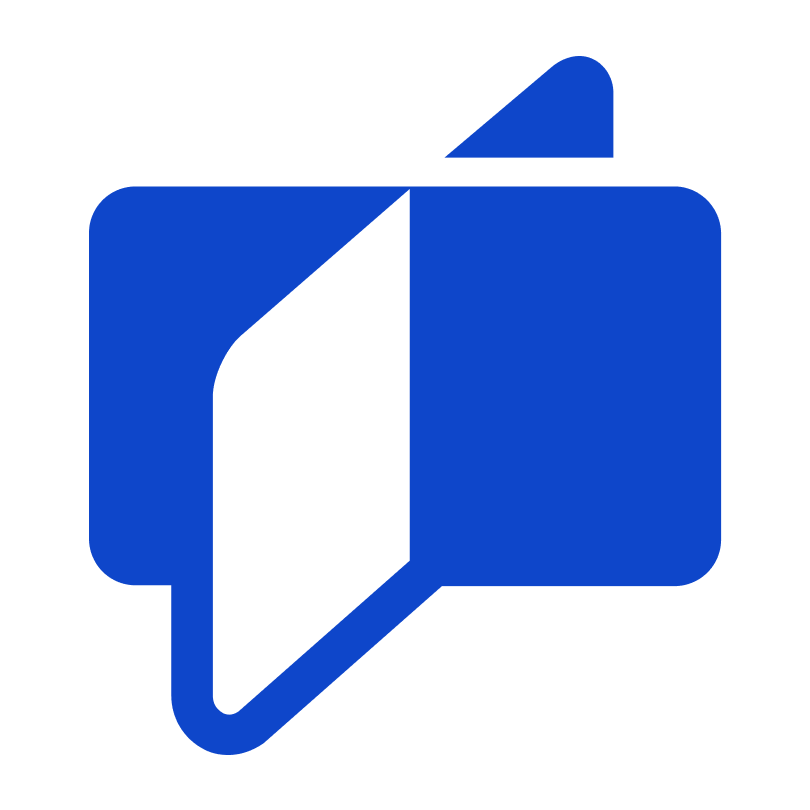
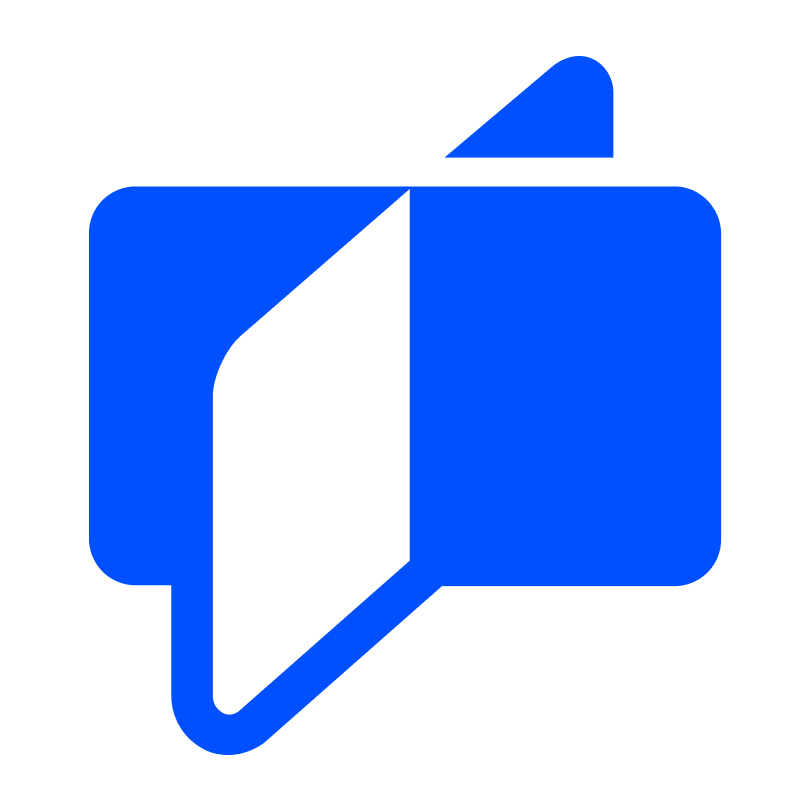
feat: electric blue

diff --git a/packages/styles/_colors.scss b/packages/styles/_colors.scss
@@ -78,25 +78,25 @@ $v-orange-850: rgb(255, 221, 179);
 $v-orange-900: rgb(255, 232, 204);
 $v-orange-950: rgb(255, 243, 229);
 
-$v-primary-50: rgb(0, 0, 0);
-$v-primary-100: rgb(1, 4, 11);
-$v-primary-150: rgb(2, 12, 35);
-$v-primary-200: rgb(4, 20, 59);
-$v-primary-250: rgb(6, 29, 83);
-$v-primary-300: rgb(7, 37, 107);
-$v-primary-350: rgb(9, 45, 130);
-$v-primary-400: rgb(11, 53, 154);
-$v-primary-450: rgb(12, 62, 178);
-$v-primary-500: rgb(14, 70, 202);
-$v-primary-550: rgb(16, 78, 226);
-$v-primary-600: rgb(28, 91, 239);
-$v-primary-650: rgb(52, 108, 241);
-$v-primary-700: rgb(75, 125, 243);
-$v-primary-750: rgb(99, 142, 244);
-$v-primary-800: rgb(123, 160, 246);
-$v-primary-850: rgb(147, 177, 248);
-$v-primary-900: rgb(171, 194, 249);
-$v-primary-950: rgb(195, 211, 251);
+$v-primary-50: rgb(0, 8, 25);
+$v-primary-100: rgb(0, 16, 51);
+$v-primary-150: rgb(0, 24, 77);
+$v-primary-200: rgb(0, 32, 102);
+$v-primary-250: rgb(0, 40, 128);
+$v-primary-300: rgb(0, 48, 153);
+$v-primary-350: rgb(0, 56, 179);
+$v-primary-400: rgb(0, 64, 204);
+$v-primary-450: rgb(0, 72, 230);
+$v-primary-500: rgb(0, 80, 255);
+$v-primary-550: rgb(26, 97, 255);
+$v-primary-600: rgb(51, 115, 255);
+$v-primary-650: rgb(77, 132, 255);
+$v-primary-700: rgb(102, 150, 255);
+$v-primary-750: rgb(128, 167, 255);
+$v-primary-800: rgb(153, 185, 255);
+$v-primary-850: rgb(179, 202, 255);
+$v-primary-900: rgb(204, 220, 255);
+$v-primary-950: rgb(229, 237, 255);
 
 $v-secondary-100: rgb(130, 122, 0);
 $v-secondary-200: rgb(181, 170, 0);
